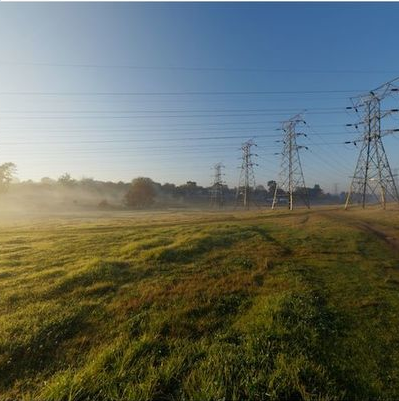
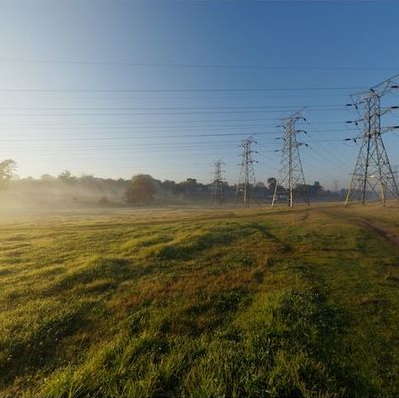
Reflections fully functional

diff --git a/CubeMapRendering.cs b/CubeMapRendering.cs
@@ -2,6 +2,7 @@ using EduGraf;
 using EduGraf.Cameras;
 using EduGraf.Geometries;
 using EduGraf.Lighting;
+using EduGraf.OpenGL;
 using EduGraf.Shapes;
 using EduGraf.Tensors;
 using SixLabors.ImageSharp;
@@ -13,66 +14,71 @@ namespace Cubemap;
 public class CubeMapRendering : Rendering
 {
     const float Scale = 5f;
+    private Camera Camera;
+    private string imageName = "Field";
 
-    public CubeMapRendering(Graphic graphic) : base(graphic, new Color3(0, 0, 0))
+    public CubeMapRendering(Graphic graphic, Camera camera) : base(graphic, new Color3(0, 0, 0))
     {
-        //var cubeAsFaces = GetCubeAsFaces(graphic);
+        Camera = camera;
         var cubePosition = new Point3(0, 0, 0);
-        var sphere = GetSphere(graphic);
-        var spherePosition = new Point3(0, 0, 0);
-        using var imageFront = Image.Load<Rgba32>("assets/FieldCubeMap/FieldFront.png");
+        using var imageFront = Image.Load<Rgba32>("assets/" + imageName + "CubeMap/" + imageName + "Front.png");
         imageFront.Mutate(context => context.Flip(FlipMode.Vertical));
-        using var imageBack = Image.Load<Rgba32>("assets/FieldCubeMap/FieldBack.png");
+        using var imageBack = Image.Load<Rgba32>("assets/" + imageName + "CubeMap/" + imageName + "Back.png");
         imageBack.Mutate(context => context.Flip(FlipMode.Vertical));
-        using var imageLeft = Image.Load<Rgba32>("assets/FieldCubeMap/FieldLeft.png");
+        using var imageLeft = Image.Load<Rgba32>("assets/" + imageName + "CubeMap/" + imageName + "Left.png");
         imageLeft.Mutate(context => context.Flip(FlipMode.Vertical));
-        using var imageRight = Image.Load<Rgba32>("assets/FieldCubeMap/FieldRight.png");
+        using var imageRight = Image.Load<Rgba32>("assets/" + imageName + "CubeMap/" + imageName + "Right.png");
         imageRight.Mutate(context => context.Flip(FlipMode.Vertical));
-        using var imageTop = Image.Load<Rgba32>("assets/FieldCubeMap/FieldTop.png");
+        using var imageTop = Image.Load<Rgba32>("assets/" + imageName + "CubeMap/" + imageName + "Top.png");
         imageTop.Mutate(context => context.Flip(FlipMode.Horizontal));
-        using var imageBottom = Image.Load<Rgba32>("assets/FieldCubeMap/FieldBottom.png");
+        using var imageBottom = Image.Load<Rgba32>("assets/" + imageName + "CubeMap/" + imageName + "Bottom.png");
         imageBottom.Mutate(context => context.Flip(FlipMode.Vertical));
 
-        Face[] faces = getFacesOfCube(Cube.Positions, Cube.Triangles);
-        var faceFront = GetFace(graphic, imageLeft, faces[0], "left");
-        var faceBack = GetFace(graphic, imageFront, faces[1], "front");
-        var faceLeft = GetFace(graphic, imageRight, faces[2], "right");
-        var faceRight = GetFace(graphic, imageBack, faces[3], "back");
-        var faceTop = GetFace(graphic, imageTop, faces[4], "top");
-        var faceBottom =  GetFace(graphic, imageBottom, faces[5], "bottom");
-            
-            Console.WriteLine("CUBE TEXTUREUV");
-            Console.WriteLine(string.Join(", ", Cube.TextureUv));
+        /*The images and textures are manipulated to allow any CubeMap image like Field/CanyonCubeMap.jpeg to be used.*/
+        Face[] faces = GetFacesOfCube(Cube.Positions, Cube.Triangles);
+        var faceFront = GetFace(graphic, imageLeft, faces[0], "left", out var frontTexture);
+        var faceBack = GetFace(graphic, imageFront, faces[1], "front", out var backTexture);
+        var faceLeft = GetFace(graphic, imageRight, faces[2], "right", out var leftTexture);
+        var faceRight = GetFace(graphic, imageBack, faces[3], "back", out var rightTexture);
+        var faceTop = GetFace(graphic, imageTop, faces[4], "top", out var topTexture);
+        var faceBottom =  GetFace(graphic, imageBottom, faces[5], "bottom", out var bottomTexture);
 
-        Scene.AddRange(
-        [
-            faceFront
-                .Scale(Scale)
-                .Translate(cubePosition.Vector),
-            faceBack
-                .Scale(Scale)
-                .Translate(cubePosition.Vector),
-            faceLeft
-                .Scale(Scale)
-                .Translate(cubePosition.Vector),
-            faceRight
-                .Scale(Scale)
-                .Translate(cubePosition.Vector),
-            faceTop
-                .Scale(Scale)
-                .Translate(cubePosition.Vector),
-            faceBottom
-                .Scale(Scale)
-                .Translate(cubePosition.Vector),
-            sphere
-                .Scale(Scale/4)
-                .Translate(spherePosition.Vector)
-        ]);
+        GlTextureHandle[] textures = [backTexture, rightTexture, topTexture, bottomTexture, frontTexture, leftTexture];
+        var sphere = GetSphere(graphic, textures, Scale);
+            
+        Console.WriteLine("CUBE TEXTUREUV");
+        Console.WriteLine(string.Join(", ", Cube.TextureUv));
+
+        foreach (var face in new[] {
+                     faceFront
+                         .Scale(Scale)
+                         .Translate(cubePosition.Vector),
+                     faceBack
+                         .Scale(Scale)
+                         .Translate(cubePosition.Vector),
+                     faceLeft
+                         .Scale(Scale)
+                         .Translate(cubePosition.Vector),
+                     faceRight
+                         .Scale(Scale)
+                         .Translate(cubePosition.Vector),
+                     faceTop
+                         .Scale(Scale)
+                         .Translate(cubePosition.Vector),
+                     faceBottom
+                         .Scale(Scale)
+                         .Translate(cubePosition.Vector),
+                     sphere
+                         .Scale(Scale / 4)
+                 })
+        {
+            Scene.Add(face);
+        }
     }
 
-    private VisualPart GetFace(Graphic graphic, Image<Rgba32> image, Face face, String name){
+    private VisualPart GetFace(Graphic graphic, Image<Rgba32> image, Face face, String name, out GlTextureHandle texture){
             // Create Texture
-            var texture = Graphic.CreateTexture(image);
+            texture = (GlTextureHandle) Graphic.CreateTexture(image);
             var material = new ColorTextureMaterial(1f, 1f, texture);
             // Create face shading
             var shading = graphic.CreateShading("emissive", material, [new AmbientLight(new Color3(1f, 1f, 1f))]);
@@ -81,52 +87,47 @@ public class CubeMapRendering : Rendering
             var positions = face.Positions;
             var triangles = face.Triangles;
             var textureUvs = face.TextureUv;
-            if(name == "top"){
-                textureUvs = new float[]
-                {
+            if(name == "top")
+            {
+                textureUvs =
+                [
                     1.0f, 0.0f,
                     1.0f, 1.0f,
                     0.0f, 1.0f,
                     0.0f, 0.0f
-                };
+                ];
             } else if(name == "bottom"){
-                textureUvs = new float[]
-                {
+                textureUvs =
+                [
                     0.0f, 1.0f,
                     0.0f, 0.0f,
                     1.0f, 0.0f,
                     1.0f, 1.0f
-                };
+                ];
             }
             var geometry = Geometry.CreateWithUv(positions, positions, textureUvs, triangles);
             
             var surface = graphic.CreateSurface(shading, geometry);
-            return graphic.CreateVisual(name, surface);
-
-            
+            var visual = graphic.CreateVisual(name, surface);
+            return visual;
     }
     
-    private VisualPart GetSphere(Graphic graphic)
+    private VisualPart GetSphere(Graphic graphic, GlTextureHandle[] textures, float z)
     {
-        // Create Texture from image
-        using var image = Image.Load<Rgba32>("assets/CanyonCubeMap.jpeg");
-        var texture = Graphic.CreateTexture(image);
-        var material = new ColorTextureMaterial(1f, 1f, texture);
-        
         // Create sphere shading
-        var shading = graphic.CreateShading("emissive", material, [new AmbientLight(new Color3(1f, 1f, 1f))]);
+        var shading = new ReflectionShading((GlGraphic)graphic, textures, z);
         
         // Set up sphere geometry
-        var positions = Sphere.GetPositions(10, 10);
-        var triangles = Sphere.GetTriangles(10, 10);
-        var textureUvs = Sphere.GetTextureUvs(10, 10);
+        var positions = Sphere.GetPositions(20, 20);
+        var triangles = Sphere.GetTriangles(20, 20);
+        var textureUvs = Sphere.GetTextureUvs(20, 20);
         var geometry = Geometry.CreateWithUv(positions, textureUvs, triangles);
         
         var surface = graphic.CreateSurface(shading, geometry);
         return graphic.CreateVisual("sphere", surface);
     } 
 
-    private Face[] getFacesOfCube(float[] positions,ushort[] triangles)
+    private Face[] GetFacesOfCube(float[] positions,ushort[] triangles)
     {
         Face[] faces = new Face[6];
         for (int faceIndex = 0; faceIndex < 6; faceIndex++) {
@@ -162,13 +163,13 @@ public class CubeMapRendering : Rendering
         {
             Positions = positions;
             Triangles = triangles;
-            TextureUv = new float[]
-            {
+            TextureUv =
+            [
                 0.0f, 0.0f,
                 1.0f, 0.0f,
                 1.0f, 1.0f,
                 0.0f, 1.0f
-            };
+            ];
         }
     }
 }

diff --git a/ReflectionShading.cs b/ReflectionShading.cs
@@ -1,0 +1,94 @@
+using EduGraf.OpenGL;
+
+namespace Cubemap;
+
+public class ReflectionShading : GlShading
+{
+    private const string VERTEX_SHADER = @"
+#version 410
+
+in vec3 Position;
+
+uniform mat4 Model;
+uniform mat4 View;
+uniform mat4 Projection;
+out vec3 surfacePosition;
+
+void main(void)
+{
+    gl_Position = vec4(Position, 1.0) * Model * View * Projection;
+    surfacePosition = vec3(vec4(Position, 1.0) * Model);
+}";
+    private const string FRAGMENT_SHADER = @"
+#version 330
+
+in vec3 surfacePosition;
+
+uniform vec3 CameraPosition;
+uniform float scale;
+uniform sampler2D right;
+uniform sampler2D left;
+uniform sampler2D top;
+uniform sampler2D bottom;
+uniform sampler2D front;
+uniform sampler2D back;
+out vec4 FragColor;
+
+void main()
+{         
+    vec3 incident = normalize(surfacePosition - CameraPosition);
+    vec3 reflected = reflect(incident, normalize(surfacePosition));
+    float t = (scale - surfacePosition.z) / reflected.z;
+    float f = (scale - surfacePosition.x) / reflected.x;
+    float g = (scale - surfacePosition.y) / reflected.y;
+    FragColor = vec4(0, 0, 0, 0);
+    if (t > 0) {
+      vec2 uv = 0.5 * (surfacePosition.xy + t * reflected.xy) / scale + 0.5;
+      if (0 <= uv.x && uv.x < 1 && 0 <= uv.y && uv.y < 1) FragColor = texture(front, uv);
+    } 
+    if (t < 0) {
+      t = (scale + surfacePosition.z) / reflected.z;
+      vec2 uv = 0.5 * (surfacePosition.xy - t * reflected.xy) / scale + 0.5;
+      uv = vec2(1- uv.x, uv.y);
+      if (0 <= uv.x && uv.x < 1 && 0 <= uv.y && uv.y < 1) FragColor = texture(back, uv);
+    }
+    if (f > 0) {
+      vec2 uv = -0.5 * (surfacePosition.yz + f * reflected.yz) / scale + 0.5;
+      uv = vec2(uv.y, 1.0 - uv.x);
+      if (0 <= uv.x && uv.x < 1 && 0 <= uv.y && uv.y < 1) FragColor = texture(left, uv);
+    }
+    if (f < 0) {
+      f = (scale + surfacePosition.x) / reflected.x;
+      vec2 uv = 0.5 * (surfacePosition.yz - f * reflected.yz) / scale + 0.5;
+      uv = vec2(uv.y, uv.x);
+      if (0 <= uv.x && uv.x < 1 && 0 <= uv.y && uv.y < 1) FragColor = texture(right, uv);
+    }
+    if (g > 0) {
+      vec2 uv = -0.5 * (surfacePosition.xz + g * reflected.xz) / scale + 0.5;
+      uv = vec2(1- uv.y, 1- uv.x);
+      if (0 <= uv.x && uv.x < 1 && 0 <= uv.y && uv.y < 1) FragColor = texture(top, uv);
+    } 
+    if (g < 0) {
+      g = (scale + surfacePosition.y) / reflected.y;
+      vec2 uv = -0.5 * (surfacePosition.xz - g * reflected.xz) / scale + 0.5;
+      uv = vec2(uv.y, 1- uv.x);
+      if (0 <= uv.x && uv.x < 1 && 0 <= uv.y && uv.y < 1) FragColor = texture(bottom, uv);
+    }
+}";
+
+    public ReflectionShading(GlGraphic graphic, GlTextureHandle[] textures, float scale) 
+        : base(
+            "uniform", 
+            graphic, 
+            VERTEX_SHADER, 
+            FRAGMENT_SHADER, 
+            new GlNamedTextureShadingAspect("left", textures[0]), 
+            new GlNamedTextureShadingAspect("right", textures[1]), 
+            new GlNamedTextureShadingAspect("top", textures[2]), 
+            new GlNamedTextureShadingAspect("bottom", textures[3]), 
+            new GlNamedTextureShadingAspect("front", textures[4]), 
+            new GlNamedTextureShadingAspect("back", textures[5]))
+    {
+        DoInContext(() => Set("scale", scale));
+    }
+}

diff --git a/Program.cs b/Program.cs
@@ -11,9 +11,8 @@ public static class Program
     {
         var graphic = new OpenTkGraphic();
         var camera = new OrbitCamera(new Point3(3, 3, 1), Point3.Origin);
-        //var camera = new FlyCamera(new View(new Point3(1, 5,1), Vector3.Zero, Vector3.UnitY));
         using var window = new OpenTkWindow("CubeMapRendering", graphic, 1024, 768, camera.Handle);
-        var rendering = new CubeMapRendering(graphic);
+        var rendering = new CubeMapRendering(graphic, camera);
         window.Show(rendering, camera);
     }
 }
